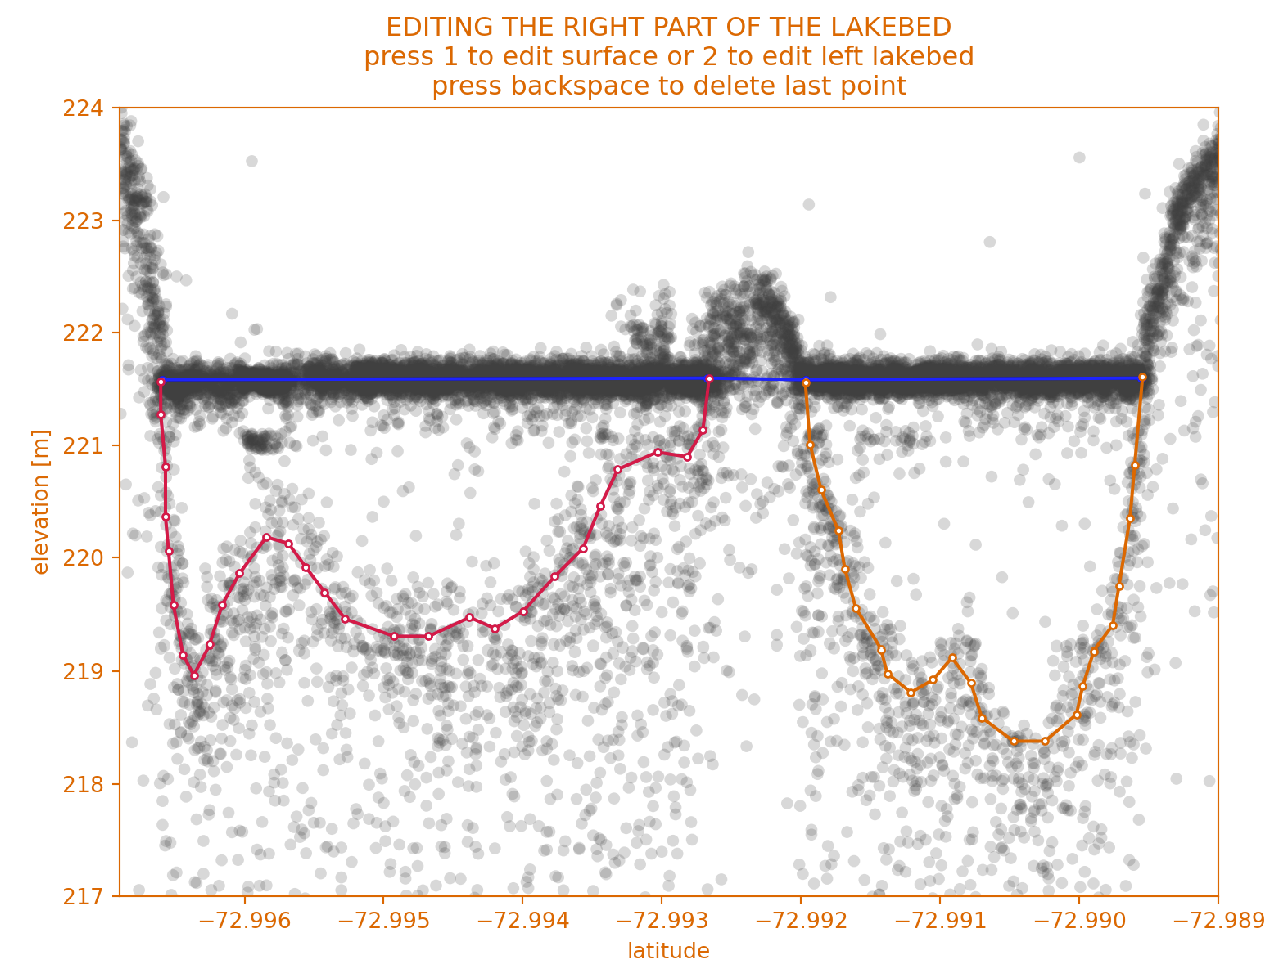
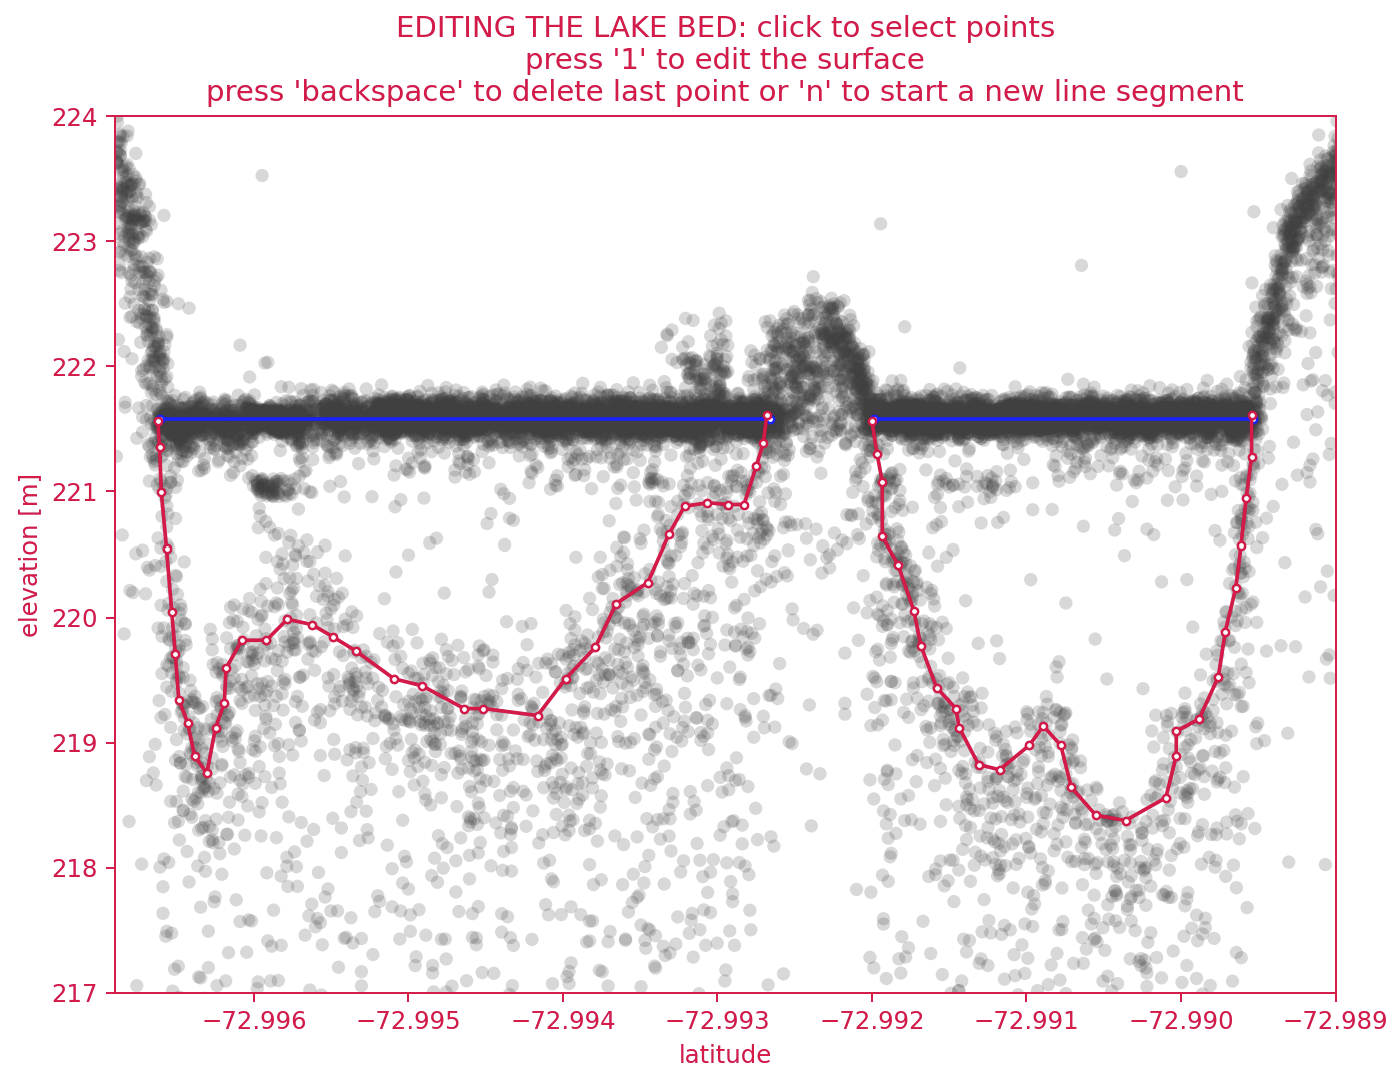
brush up notebook appearance

Changed region(s): [[0.0, 0.0, 1.0, 0.9928], [0.9468, 0.7756, 0.9773, 0.8066], [0.1832, 0.1551, 0.2138, 0.1861]]

diff --git a/pondpicking.py b/pondpicking.py
@@ -12,22 +12,22 @@ class PondPicker:
             self.latlims = [-72.9969, -72.9890]
             self.lonlims = [67.2559, 67.2597]
             self.hlims = [217, 224]
-            self.has2parts = True
+            #self.has2parts = True
         elif pond == 2: 
             self.latlims = [-72.8937, -72.8757]
             self.lonlims = [67.3046, 67.3131]
             self.hlims = [204, 212]
-            self.has2parts = True
+            #self.has2parts = True
         elif pond == 3: 
             self.latlims = [-71.8767, -71.8669]
             self.lonlims = [67.7598, 67.7640]
             self.hlims = [89, 98]
-            self.has2parts = True
+            #self.has2parts = True
         elif pond == 4: 
             self.latlims = [-71.6481, -71.6376]
             self.lonlims = [67.8563, 67.8608]
             self.hlims = [76, 88]
-            self.has2parts = False
+            #self.has2parts = False
         self.url = 'https://openaltimetry.org/data/api/icesat2/atl03?minx={minx}&miny={miny}&maxx={maxx}&maxy={maxy}&trackId=81&beamName=gt2l&outputFormat=json&date=2019-01-02&client=jupyter'
         self.url = self.url.format(minx=self.lonlims[0],miny=self.latlims[0],maxx=self.lonlims[1],maxy=self.latlims[1])
         print('requesting data: ', self.url)
@@ -37,7 +37,6 @@ class PondPicker:
         self.lat_ph = []
         self.lon_ph = []
         self.h_ph = []
-        #print(self.data)
         for beam in self.data:
             for photons in beam['series']:
                 if any(word in photons['name'] for word in self.conf_ph):
@@ -51,12 +50,8 @@ class PondPicker:
         self.ax = self.fig.add_subplot(111)
         self.colph = np.array([[0.25, 0.25, 0.25]])
         self.cols = 'b'
-        self.colb1 = np.array([252, 3, 73]) / 255
-        self.colb2 = np.array([255, 102, 0]) / 255
-        if self.has2parts:
-            self.ax.set_title('EDITING THE POND SURFACE\npress 2 to edit left lakebed, press 3 to edit right lakebed\npress backspace to delete last point',color=self.cols)
-        else:
-            self.ax.set_title('EDITING THE POND SURFACE\npress 2 to edit the lakebed\npress backspace to delete last point',color=self.cols)
+        self.colb = np.array([252, 3, 73]) / 255
+        self.ax.set_title("EDITING THE POND SURFACE: click to select points\npress '2' to edit the lake bed\npress 'backspace' to delete last point or 'n' to start a new line segment",color=self.cols)
         self.ax.set_xlabel('latitude')
         self.ax.set_ylabel('elevation [m]')
         self.ax.spines['bottom'].set_color(self.cols)
@@ -69,16 +64,13 @@ class PondPicker:
         self.ax.tick_params(axis='y', colors=self.cols)
         self.phscat = self.ax.scatter(self.lat_ph,self.h_ph,s=30,c=self.colph,alpha=0.2,edgecolors='none')
         self.sline, = self.ax.plot([],[],c=self.cols,ls='-',marker='o',ms=3,mfc='w',mec=self.cols)
-        self.b1line, = self.ax.plot([],[],c=self.colb1,ls='-',marker='o',ms=3,mfc='w',mec=self.colb1)
-        self.b2line, = self.ax.plot([],[],c=self.colb2,ls='-',marker='o',ms=3,mfc='w',mec=self.colb2)
+        self.bline, = self.ax.plot([],[],c=self.colb,ls='-',marker='o',ms=3,mfc='w',mec=self.colb)
         self.ax.set_xlim((self.latlims[0], self.latlims[1]))
         self.ax.set_ylim((self.hlims[0], self.hlims[1]))
         self.xs = list(self.sline.get_xdata())
         self.ys = list(self.sline.get_ydata())
-        self.xb1 = list(self.b1line.get_xdata())
-        self.yb1 = list(self.b1line.get_ydata())
-        self.xb2 = list(self.b2line.get_xdata())
-        self.yb2 = list(self.b2line.get_ydata())
+        self.xb = list(self.bline.get_xdata())
+        self.yb = list(self.bline.get_ydata())
         self.lastkey = '1'
         
         # connect to all the events we need
@@ -93,15 +85,10 @@ class PondPicker:
             self.sline.set_data(self.xs, self.ys)
             self.sline.figure.canvas.draw()
         elif self.lastkey == '2':
-            self.xb1.append(event.xdata)
-            self.yb1.append(event.ydata)
-            self.b1line.set_data(self.xb1, self.yb1)
-            self.b1line.figure.canvas.draw()
-        elif self.lastkey == '3':
-            self.xb2.append(event.xdata)
-            self.yb2.append(event.ydata)
-            self.b2line.set_data(self.xb2, self.yb2)
-            self.b2line.figure.canvas.draw()
+            self.xb.append(event.xdata)
+            self.yb.append(event.ydata)
+            self.bline.set_data(self.xb, self.yb)
+            self.bline.figure.canvas.draw()
         
     def on_key(self, event):
         'delete the last point on backspace and update plot'
@@ -114,34 +101,30 @@ class PondPicker:
             elif self.lastkey == '2':
                 del self.xb1[-1]
                 del self.yb1[-1]
-                self.b1line.set_data(self.xb1, self.yb1)
-                self.b1line.figure.canvas.draw()
-            elif self.lastkey == '3':
-                del self.xb2[-1]
-                del self.yb2[-1]
-                self.b2line.set_data(self.xb2, self.yb2)
-                self.b2line.figure.canvas.draw()
+                self.bline.set_data(self.xb, self.yb)
+                self.bline.figure.canvas.draw()
+        elif event.key == 'n':
+            if self.lastkey == '1':
+                self.xs.append(np.nan)
+                self.ys.append(np.nan)
+                self.sline.set_data(self.xs, self.ys)
+                self.sline.figure.canvas.draw()
+            elif self.lastkey == '2':
+                self.xb.append(np.nan)
+                self.yb.append(np.nan)
+                self.bline.set_data(self.xb, self.yb)
+                self.bline.figure.canvas.draw()
         else:
             self.lastkey = event.key
             if event.key == '1':
                 col = self.cols
-                if self.has2parts:
-                    tit = 'EDITING THE POND SURFACE\npress 2 to edit left lakebed or 3 to edit right lakebed\npress backspace to delete last point'
-                else:
-                    tit = 'EDITING THE POND SURFACE\npress 2 to edit the lakebed\npress backspace to delete last point'
+                tit = "EDITING THE POND SURFACE: click to select points\npress '2' to edit the lake bed\npress 'backspace' to delete last point or 'n' to start a new line segment"
             elif event.key == '2':
-                col = self.colb1
-                if self.has2parts:
-                    tit = 'EDITING THE LEFT PART OF THE LAKEBED\npress 1 to edit surface or 3 to edit right lakebed\npress backspace to delete last point'
-                else:
-                    tit = 'EDITING THE LAKEBED\npress 1 to edit the surface\npress backspace to delete last point'
-            elif event.key == '3':
-                if self.has2parts:
-                    col = self.colb2
-                    tit = 'EDITING THE RIGHT PART OF THE LAKEBED\npress 1 to edit surface or 2 to edit left lakebed\npress backspace to delete last point'
-                else:
-                    col = 'k'
-                    tit = 'THIS POND ONLY HAS ONE PART\npress 1 to edit the surface or 2 to edit the lakebed'
+                col = self.colb
+                tit = "EDITING THE LAKE BED: click to select points\npress '1' to edit the surface\npress 'backspace' to delete last point or 'n' to start a new line segment"
+            else:
+                col = 'k'
+                tit = "invalid keyboard input\npress '1' to edit the surface or '2' to edit the lake bed"
                     
             self.ax.set_title(tit,color=col)
             self.ax.spines['bottom'].set_color(col)
@@ -168,9 +151,8 @@ def getDataDownload(pond1,pond2,pond3,pond4,YOUR_NAME):
     ponddata = [pond1, pond2, pond3, pond4]
     for ipond,p in enumerate(ponddata):
         s1 = [p.xs, p.ys]
-        s2 = [p.xb1, p.yb1]
-        s3 = [p.xb2, p.yb2]
-        for itype,s in enumerate([s1, s2, s3]):
+        s2 = [p.xb, p.yb]
+        for itype,s in enumerate([s1, s2]):
             lat = np.append(lat,s[0])
             h = np.append(h,s[1])
             pondid = np.append(pondid,np.ones_like(s[0])*(ipond+1))
@@ -184,14 +166,11 @@ def getDataDownload(pond1,pond2,pond3,pond4,YOUR_NAME):
     for ipond,p in enumerate(ponddata):
         thispond = ipond+1
         issurf = (df.pondid == thispond) & (df.typeid == 1)
-        isbot1 = (df.pondid == thispond) & (df.typeid == 2)
-        isbot2 = (df.pondid == thispond) & (df.typeid == 3)
+        isbott = (df.pondid == thispond) & (df.typeid == 2)
         xsurf = df.lat[issurf]
         ysurf = df.h[issurf]
-        xbot1 = df.lat[isbot1]
-        ybot1 = df.h[isbot1]
-        xbot2 = df.lat[isbot2]
-        ybot2 = df.h[isbot2]
+        xbott = df.lat[isbott]
+        ybott = df.h[isbott]
         ax = fig.add_subplot(2,2,thispond)
         ax.set_title('pond' + str(thispond) + ', ' + YOUR_NAME,size=8)
         ax.set_xlabel('latitude',size=8)
@@ -199,8 +178,7 @@ def getDataDownload(pond1,pond2,pond3,pond4,YOUR_NAME):
         ax.tick_params(axis='both', which='major', labelsize=6)
         ax.scatter(p.lat_ph,p.h_ph,s=10,c=p.colph,alpha=0.2,edgecolors='none')
         ax.plot(xsurf,ysurf,c='b')
-        ax.plot(xbot1,ybot1,c='r')
-        ax.plot(xbot2,ybot2,c='r')
+        ax.plot(xbott,ybott,c='r')
         ax.set_xlim((p.latlims[0], p.latlims[1]))
         ax.set_ylim((p.hlims[0], p.hlims[1]))
     fig.tight_layout()
